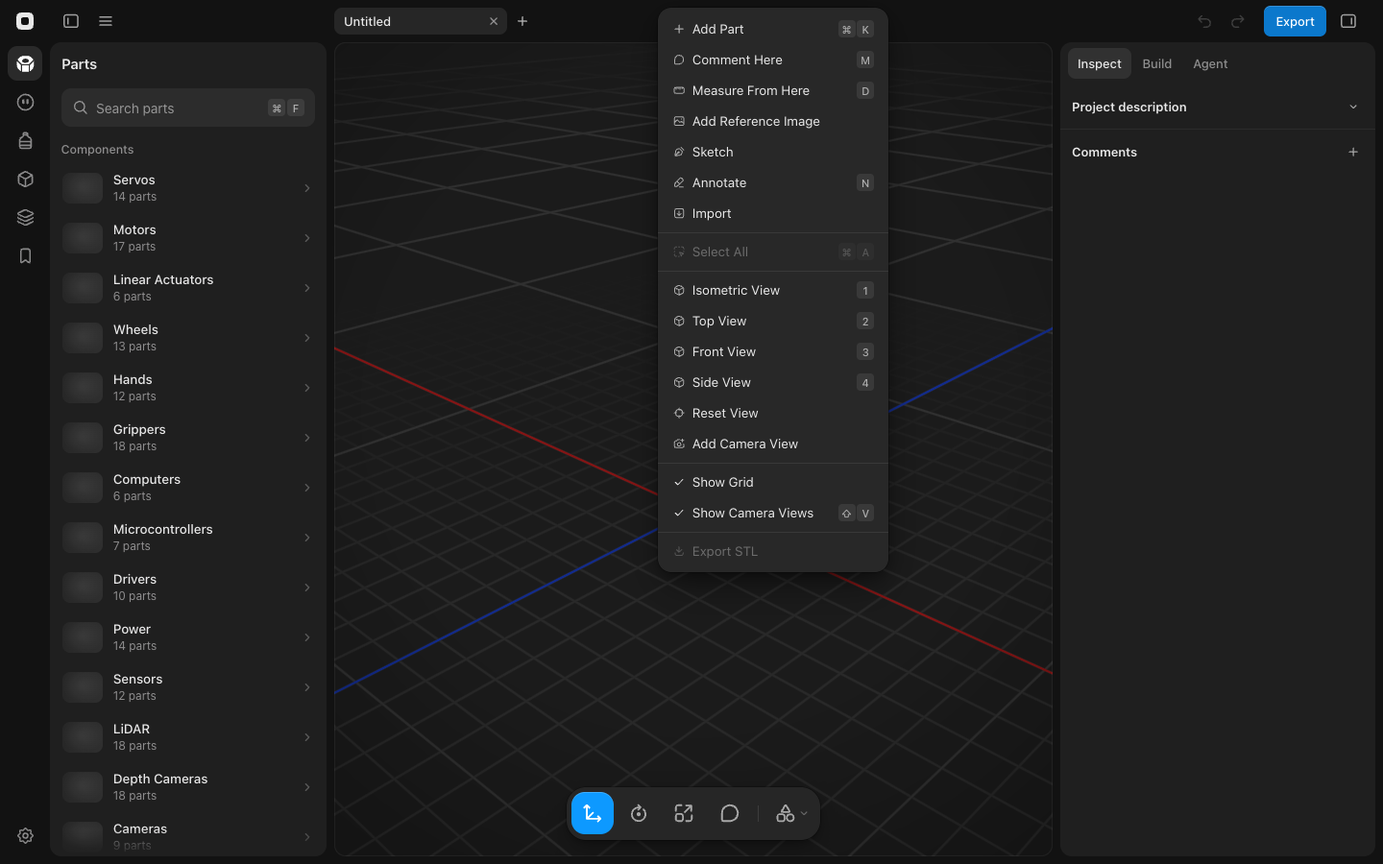
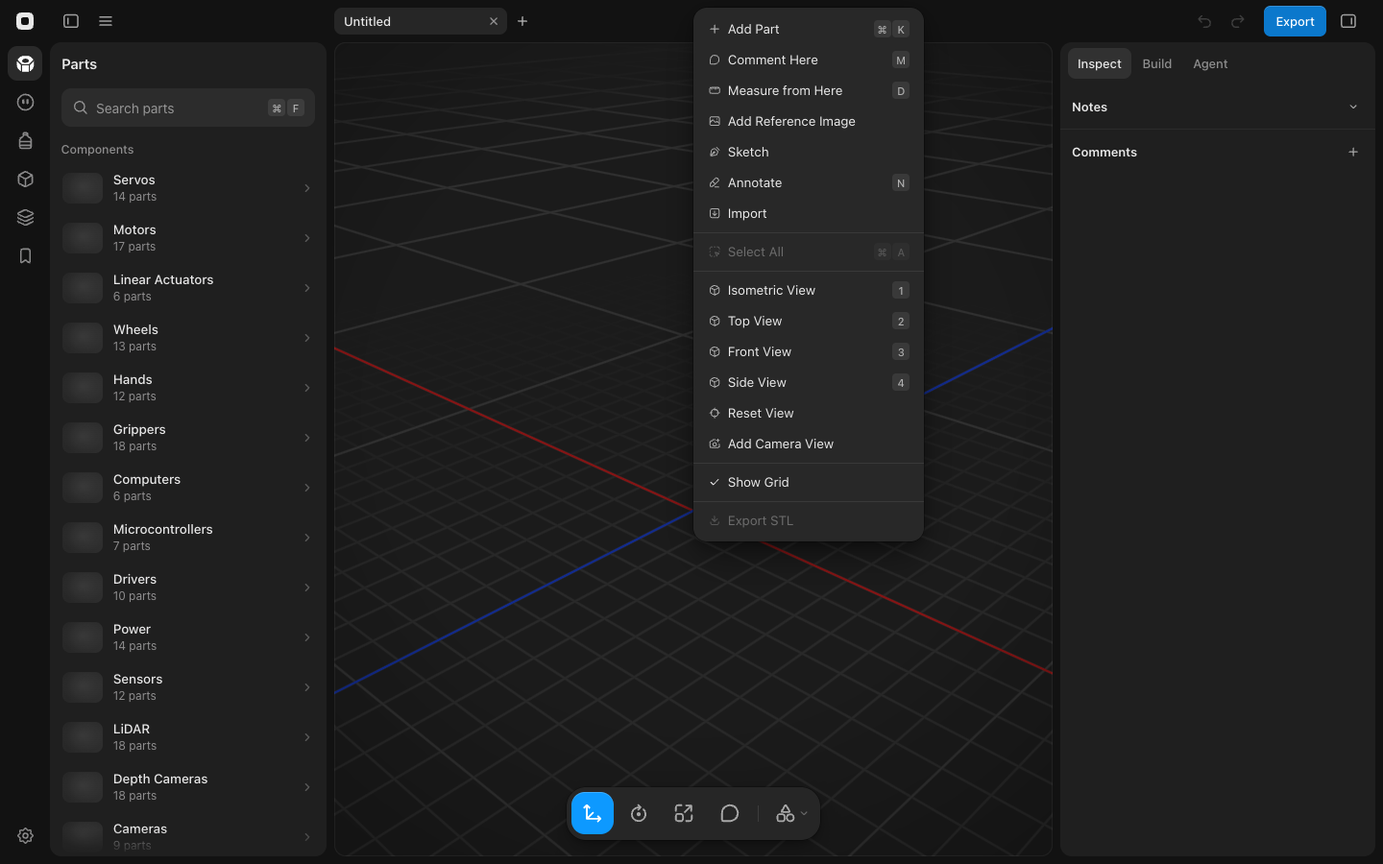
Write Title Case labels with short prepositions in lowercase
Most labels already kept from, to, with and as lowercase (Model from
Image, Copy as Markdown), but Measure From Here, Train From Tries,
Drive With Camera, Compare With <scene>, Screws Into Parts and Screws
Off Their Holes didn't, and Ignore All built names like Range Of Motion
Checks by capitalizing every word. One titleCase helper in src/utils
now cases built labels, the copy guide states the rule, and the help
articles, their canvas-menu screenshot, guides and e2e tests use the
new labels.

diff --git a/e2e/trainFromTries.e2e.test.ts b/e2e/trainFromTries.e2e.test.ts
@@ -91,13 +91,13 @@ afterAll(async () => {
   await app?.close();
 });
 
-describe('Train From Tries', () => {
+describe('Train from Tries', () => {
   it.skipIf(process.platform === 'win32')(
     'trains from five driven tries, refuses a policy the Case fails and keeps one it passes as a ready skill',
     async () => {
       const policy = touchingPolicy();
       const still = { ...policy, layers: [{ ...policy.layers[0], b: policy.layers[0].b.map(() => 0) }] };
-      const trainFromTries = () => button('Train From Tries');
+      const trainFromTries = () => button('Train from Tries');
       const result = app.page.locator(visible('[data-testid="tries-policy"]'));
       const skill = app.page.locator(visible('[data-testid="skill-row"]'), { hasText: 'Touch a Point' });
 
@@ -117,8 +117,8 @@ describe('Train From Tries', () => {
 
       await stubTrainer(policy);
       await app.page.keyboard.press('Meta+k');
-      await app.page.getByLabel('Search commands').fill('Train From Tries');
-      await app.page.locator(visible('button[data-idx]')).filter({ hasText: 'Train From Tries' }).first().click();
+      await app.page.getByLabel('Search commands').fill('Train from Tries');
+      await app.page.locator(visible('button[data-idx]')).filter({ hasText: 'Train from Tries' }).first().click();
       await expect.poll(() => result.getAttribute('data-kept'), { timeout: 180000 }).toBe('true');
       expect(await result.innerText()).toMatch(/^(29|30|31|32) of 32$/);
 

diff --git a/src/readiness/wording.ts b/src/readiness/wording.ts
@@ -1,3 +1,4 @@
+import { titleCase } from '../utils/titleCase';
 import type { Finding, FindingArea, FindingFix, FindingLevel } from './types';
 
 interface Rule {
@@ -37,9 +38,9 @@ export const RULES = {
     'Thin Walls Around Inserts',
     'The wall around this insert could break when it’s pressed in.',
   ),
-  'misses-hole': fit(SCREWS, 'Screws Off Their Holes', 'This screw doesn’t line up with a mounting hole.'),
+  'misses-hole': fit(SCREWS, 'Screws off Their Holes', 'This screw doesn’t line up with a mounting hole.'),
   'too-deep': fit(SCREWS, 'Screws Too Deep', 'This screw goes too deep and could damage the part.'),
-  'screw-in-part': fit(SCREWS, 'Screws Into Parts', 'Check there’s a threaded hole where this screw lands.'),
+  'screw-in-part': fit(SCREWS, 'Screws into Parts', 'Check there’s a threaded hole where this screw lands.'),
   unheld: {
     area: 'assembly',
     check: ATTACHED,
@@ -136,8 +137,6 @@ const PLAIN_ENGINEERING: Record<string, Partial<Record<FindingLevel, string>>> =
     note: 'The robot is close to tipping over.',
   },
 };
-
-const titleCase = (text: string) => text.replace(/\b[a-z]/g, (c) => c.toUpperCase());
 
 export function engineeringFinding(
   check: string,

diff --git a/e2e/buildCheck.e2e.test.ts b/e2e/buildCheck.e2e.test.ts
@@ -360,7 +360,7 @@ describe('Cases in Checks', () => {
   }, 150000);
 });
 
-describe('Compare With', () => {
+describe('Compare with', () => {
   const rover = fixtureRobots().find((r) => r.id === 'rover-diff')!;
   const flag = presetCase('reach-the-flag', buildRig(rover.joints, rover.parts), rover.parts);
   const WEAK_WHEEL_NM = 0.075;
@@ -415,8 +415,8 @@ describe('Compare With', () => {
     await expect.poll(activeCase).toBe(caseId);
 
     await app.page.keyboard.press('Meta+k');
-    await app.page.getByLabel('Search commands').fill('Compare With');
-    await expect.poll(() => app.page.getByText(/^Compare With Weak rover/).count(), { timeout: 15000 }).toBe(1);
+    await app.page.getByLabel('Search commands').fill('Compare with');
+    await expect.poll(() => app.page.getByText(/^Compare with Weak rover/).count(), { timeout: 15000 }).toBe(1);
     await app.page.keyboard.press('Enter');
 
     const rows = app.page.locator(visible('[data-testid="compare-row"]'));

diff --git a/src/utils/titleCase.test.ts b/src/utils/titleCase.test.ts
@@ -1,0 +1,21 @@
+import { describe, expect, it } from 'vitest';
+import { titleCase } from './titleCase';
+
+describe('titleCase', () => {
+  it('capitalizes each word but articles, conjunctions and short prepositions', () => {
+    expect(titleCase('range of motion')).toBe('Range of Motion');
+    expect(titleCase('current and runtime')).toBe('Current and Runtime');
+    expect(titleCase('heat near servos')).toBe('Heat near Servos');
+    expect(titleCase('parts without a source')).toBe('Parts Without a Source');
+  });
+
+  it('capitalizes a short word that starts or ends the label', () => {
+    expect(titleCase('to the flag')).toBe('To the Flag');
+    expect(titleCase('compare with')).toBe('Compare With');
+  });
+
+  it('cases each part of a hyphenated word and keeps capitals already there', () => {
+    expect(titleCase('hard-to-reach screws')).toBe('Hard-to-Reach Screws');
+    expect(titleCase('LiDAR on IMU')).toBe('LiDAR on IMU');
+  });
+});

diff --git a/src/utils/titleCase.ts b/src/utils/titleCase.ts
@@ -1,0 +1,47 @@
+const MINOR_WORDS = new Set([
+  'a',
+  'an',
+  'the',
+  'and',
+  'or',
+  'nor',
+  'but',
+  'as',
+  'at',
+  'by',
+  'for',
+  'from',
+  'in',
+  'into',
+  'near',
+  'of',
+  'off',
+  'on',
+  'onto',
+  'per',
+  'to',
+  'via',
+  'with',
+]);
+
+const capitalized = (word: string) => word.charAt(0).toUpperCase() + word.slice(1);
+
+function casedPart(part: string, edge: boolean) {
+  const lower = part.toLowerCase();
+
+  return !edge && MINOR_WORDS.has(lower) ? lower : capitalized(part);
+}
+
+export function titleCase(text: string): string {
+  const words = text.split(' ');
+  const last = words.length - 1;
+
+  return words
+    .map((word, i) =>
+      word
+        .split('-')
+        .map((part, j, parts) => casedPart(part, (i === 0 && j === 0) || (i === last && j === parts.length - 1)))
+        .join('-'),
+    )
+    .join(' ');
+}

diff --git a/src/workspace/caseCommands.tsx b/src/workspace/caseCommands.tsx
@@ -80,7 +80,7 @@ function fromTriesCommands({ fromTries }: WorkspaceCore['simTraining']['cases'])
     {
       id: 'case-train-from-tries',
       group: 'Simulate',
-      label: 'Train From Tries',
+      label: 'Train from Tries',
       icon: <TrainIcon className={ic} />,
       keywords: 'policy imitation behaviour behavior cloning learn demonstrations demos act lerobot skill',
       run: fromTries.train,
@@ -109,7 +109,7 @@ function compareCommands(core: WorkspaceCore): Command[] {
   return caseCompare.choices.map((choice) => ({
     id: `case-compare-${choice.tabId}`,
     group: 'Simulate',
-    label: `Compare With ${choice.name}`,
+    label: `Compare with ${choice.name}`,
     icon: <CasesIcon className={ic} />,
     keywords: 'case versus pass rate which better robot scene tab',
     run: () => {

diff --git a/e2e/cameraDrive.e2e.test.ts b/e2e/cameraDrive.e2e.test.ts
@@ -56,12 +56,12 @@ afterAll(async () => {
   await app?.close();
 });
 
-describe('Drive With Camera', () => {
+describe('Drive with Camera', () => {
   it('raises the G1’s right arm with the person’s, holds the legs and turns the camera off on Esc', async () => {
     const { page } = app;
 
     await page.evaluate((samples) => (window as unknown as StudioWindow).__studio.feedPose(samples), raiseRightArm());
-    await command('Drive With Camera');
+    await command('Drive with Camera');
     await expect.poll(async () => (await studio()).drive, { timeout: 60000 }).toBe('on');
     await page.locator(shown(OPERATOR_TILE)).first().waitFor();
     expect(await operatorCamera()).toMatchObject({ open: true, live: true });

diff --git a/src/components/simulate/driveWithCamera.ts b/src/components/simulate/driveWithCamera.ts
@@ -1,7 +1,7 @@
 import { CAMERA_INPUTS } from '../../sim/inputSources';
 import type { SimDrive } from '../../sim/useDrive';
 
-export const DRIVE_WITH_CAMERA = 'Drive With Camera';
+export const DRIVE_WITH_CAMERA = 'Drive with Camera';
 
 export async function startDriving(drive: SimDrive, onRefuse: (message: string) => void, inputs?: readonly string[]) {
   if (await drive.start(undefined, inputs ? { inputs } : undefined)) return;

diff --git a/src/workspace/contextMenuItems.tsx b/src/workspace/contextMenuItems.tsx
@@ -353,7 +353,7 @@ export function contextMenuItems(menu: CanvasMenuState, inputs: ContextInputs): 
           onSelect: () => core.annotations.place(point, menu.partId),
         },
         {
-          label: 'Measure From Here',
+          label: 'Measure from Here',
           shortcut: 'D',
           icon: <RulerIcon className={ic} />,
           onSelect: () => {

diff --git a/src/readiness/wording.test.ts b/src/readiness/wording.test.ts
@@ -26,6 +26,7 @@ describe('what the user reads', () => {
     expect(f.text).toBe('This servo is too weak for its joint.');
     expect(f.detail).toContain('120%');
     expect(f.ruleName).toBe('Servo Torque Checks');
+    expect(engineeringFinding('Range of motion', 'note', { detail: '' }).ruleName).toBe('Range of Motion Checks');
   });
 });
 

diff --git a/src/components/simulate/FromTries.tsx b/src/components/simulate/FromTries.tsx
@@ -25,7 +25,7 @@ export const FromTries: React.FC<{ fromTries: TriesTraining }> = ({ fromTries })
       icon={<TrainIcon className="w-4 h-4" />}
       onClick={fromTries.train}
     >
-      Train From Tries
+      Train from Tries
     </Button>
   </div>
 );

diff --git a/docs/guide/cases.md b/docs/guide/cases.md
@@ -38,7 +38,7 @@ A clean run in a perfect world says little about the real robot, so Checks judge
 
 Two versions of a robot, say one per gripper, are compared on the same Case: duplicate the scene, change the design, and run the Case on both.
 
-- **Compare With** (the open Case's right-click menu in the Cases view, and ⌘K as Compare With ⟨scene⟩) lists the other open tabs whose robot fits the Case (`comparableRobots` in `src/cases/caseCompare.ts`: `slotRefusal` on the Case's slot, read through `studio.robotsBeside`, §5a). Only Cases with one slot are offered. `useCaseCompare` (`src/workspace/`) refreshes the list in an effect while the tab is in front, since `robotsBeside` is never read during render.
+- **Compare With** (the open Case's right-click menu in the Cases view, and ⌘K as Compare with ⟨scene⟩) lists the other open tabs whose robot fits the Case (`comparableRobots` in `src/cases/caseCompare.ts`: `slotRefusal` on the Case's slot, read through `studio.robotsBeside`, §5a). Only Cases with one slot are offered. `useCaseCompare` (`src/workspace/`) refreshes the list in an effect while the tab is in front, since `robotsBeside` is never read during render.
 - **Runs:** `compareCase(kase, robots, { runs, purchases })` gives every robot the same `runs`. In the app that's `caseVerdict` (`src/workspace/caseChecks.ts`, the same call as `run_case`), the Checks row's own path: seeds 1 to 20 in the Case workers, the Case scaled to each robot's reach by `caseRunner`, and one verdict cache keyed by the Case, model and Walk hashes, so a robot whose Checks row already ran answers at once. Model readings are cached per geometry (8 kept). Comparison jobs carry an empty tag, so a Checks rerun's `keepOnly` never drops them.
 - **Cost and mass** come from the existing code: `buildBom(…).totals.estimatedUsd` (`utils/bom.ts`, with no print report, so without support filament) and `robotWeight(…).all.grams`, the Weight check's mass (`utils/engineering.ts`).
 - **Results** shows the two robots first, as two rows: the scene's name, passes out of 20, then cost and mass. A robot the fit check stops (it falls on hold, its model won't compile, it fails the fall check) shows the stop's words in place of the count, truncated, with the whole text in its tooltip. The median margin stays out of the row: it has no unit a person can read, so only `compare_case` returns it. `betterOf` marks the higher pass rate with the accent; a refusal counts as no passes, and a tie marks neither. Clicking the other robot's row calls its tab's `openCase` (it opens that scene's Case with the same id, or adds this one) and selects the tab.
@@ -104,7 +104,7 @@ Drive works in the live sim, never as a physics-off puppet. A command is `{type:
 **Input sources** (`src/sim/inputSources.ts`, types in `inputTypes.ts`): every way of driving is a source with an id, registered once with `registerInputSource`, whose `read` turns the moment (the drive class and the held keys) into a drive command or nothing. `camera`, `phone`, `gamepad` and `keys` are registered today. A source that follows a body sets `pose` and has a lifecycle: `open(robot)` gets an `InputRobot` (a fixed arm's hand start and reach in scene mm, or a rig without parts, a table of its rest points and the joint ids to drive) and answers `null` or why it couldn't start; `close()` stops it. The drive reads the sources it's given (`drive.setInputs`; the studio's are `phone`, `gamepad` then `keys`, or `drive.start(team, { inputs })` for one session), and the first one that's moving drives, so a tilted phone overrides a stick, and a stick still overrides the keys. A command with a target or joints is never idle. When a session's sources include a pose source, `drive.start` asks `driveAccess` for pose access, opens the lifecycle sources with `openInputs` (a refusal closes what opened and comes back from `drive.refusal()`), keeps them open through restarts (a Case try starts the drive again with the same session), and closes them on stop, Esc, or the sim stopping. `drive.inputs()` holds each source's last reading. `NAMED_INPUTS` lists the sources arc #184 plans (`camera`, `phone`, `midi`, `leader-arm`, `voice`, `policy`, `script`) so a console naming one this version doesn't register is refused as missing rather than as unknown. A new source registers itself and plugs into the drive and every console without touching how a Case runs. A leader arm isn't a source: the daemon only emulates (§8k), and an emulated leader can't be moved by hand.
 
 - **Phone** (`phone`, `src/phone/`): **Pair Phone** (⌘K, Simulate group; desktop app and the dev bridge, never the web demo, which can't open a LAN socket) starts the pairing server (`electron/phone/`, Security §0h) and shows its URL as a QR code (`PairPhoneHost`, `uqr`). The phone's page sends tilt (DeviceOrientation β and γ), a touch pad's x and y and two buttons about 30 times a second; the app hears them over IPC (`phone:event`) or the bridge's event stream (`/api/bridge/phone-events`). The code closes once the phone connects; Esc while it shows, or **Unpair Phone**, ends the pairing, and so does the phone leaving. The store (`phoneStore.ts`) listens from the first Pair Phone until a pairing closes, ignores the old run's close while a new pair request is out, and adopts the main process's pairing at boot (`phoneState`, like `robotState`), so a reloaded page shows the code or the connected phone again. With no LAN IPv4 address, Pair Phone refuses with “Connect to a network to pair a phone”, never a code for a loopback URL. `phoneCommand` (`phoneDrive.ts`): tilt is level within 4° and full at 25°; tipping the top down drives forward and tipping the left edge down turns left, as `v` for rovers and legs and as the hand target's motion for arms; the pad's x strafes legs, its y lifts an arm's hand, and A grips. Each new press is a named event, `phone` with the value `a` or `b`, sent to a running Case's logic (§ Logic), so a Routine reacts to it like `voice`. A reading older than 500 ms counts as none, so a phone that locks stops the robot. `phoneDrive.test.ts`: a 20° tilt walks `quad-servo` and drives `rover-diff` forward and a level phone stops them, and a tilt moves the arm's hand forward without leaving its reach.
-- **Camera** (`camera`, `src/cameras/operator/`, §8l): **Drive With Camera** (the Simulate tab's Control section, and ⌘K's Simulate group, for robots `poseOffer` accepts: `hasArms`, or a fixed robot with an end effector) starts a session with `CAMERA_INPUTS` (`camera`, then the studio's), so keys still walk a robot whose Walk runs under its arms. For joints it sends the retargeted upper body, and nothing grips. For a fixed arm it sends the right wrist's motion relative to the shoulder as `target`, and `aux[1]` as the left hand's pinch, so it grips. If the camera can't be opened, the toast says “Couldn’t open the camera.” A Case try records as usual, so a camera-driven try exports like any other.
+- **Camera** (`camera`, `src/cameras/operator/`, §8l): **Drive with Camera** (the Simulate tab's Control section, and ⌘K's Simulate group, for robots `poseOffer` accepts: `hasArms`, or a fixed robot with an end effector) starts a session with `CAMERA_INPUTS` (`camera`, then the studio's), so keys still walk a robot whose Walk runs under its arms. For joints it sends the retargeted upper body, and nothing grips. For a fixed arm it sends the right wrist's motion relative to the shoulder as `target`, and `aux[1]` as the left hand's pinch, so it grips. If the camera can't be opened, the toast says “Couldn’t open the camera.” A Case try records as usual, so a camera-driven try exports like any other.
 - **e2e** (`e2e/inputs.e2e.test.ts`): runs Pair Phone, connects a socket from the test with the URL and certificate from `__studio.phone()`, tilts it until the rover moves, and checks the socket is refused after Unpair Phone.
 
 `useDrive` (`src/sim/useDrive.ts`) owns the drive state and the fall check; `useDriveKeys` (`src/workspace/useDriveKeys.ts`) reads W A S D or the arrows, Q E, Space (grip), R (start over: `engine.respawn` puts the robot back without touching the world) and Esc (stop). While driving, `useWorkspaceKeys` runs no plain or ⌘ key, so S, F, Backspace and undo never edit parts (any parts edit still stops the sim). Keys zero on window blur and when the page hides; with a text field focused the canvas says “Click the canvas to drive”, and a click on the canvas takes focus back. Gamepads are read in the sim's frame handler (`frameHookRef`), with no extra animation frame; a stick inside its deadzone never overrides the keys. A command is sent only when it changes (`sameCommand`, which compares the target too).
@@ -161,7 +161,7 @@ A Case's rules are a Routine (§8j), never a second format: `logic` holds one, `
 
 ### Training from tries
 
-**Train From Tries** (Results section and ⌘K, desktop only, shown once the open Case has 5 passed tries) clones a policy from the Case's passed tries in Forge (§8g) and keeps it only when the Case passes it. Code: `src/workspace/useTriesTraining.ts`, `src/skills/triesTraining.ts`, `src/datasets/demos.ts`.
+**Train from Tries** (Results section and ⌘K, desktop only, shown once the open Case has 5 passed tries) clones a policy from the Case's passed tries in Forge (§8g) and keeps it only when the Case passes it. Code: `src/workspace/useTriesTraining.ts`, `src/skills/triesTraining.ts`, `src/datasets/demos.ts`.
 
 - **Which tries:** the passed tries that match the robot now (`usableTries.ts`, shared with Datasets) whose recording also carries each joint's velocity address and the root's (`Recording.jointDof` and `root`, recorded by every try since; `canTrain`). With fewer than 5 it says what Export Dataset says about an earlier design.
 - **Rows** (`demoEpisode`): one per `episodeData` row but the last. The observation is `observe()`'s, so it's exactly what the sim's policy reads: a fixed base's constants, the Case's target as the command (`caseCommand`: the first probe end that's an object or a point, in metres), joint offsets from the default pose, joint velocities and the previous row's action. The action is the next row's actuator targets, less the default pose, over `actionScale` (the widest offset in the tries × 1.05, at least 0.25). Rows are 25 Hz, so the policy's `controlDt` is 0.04 s.
@@ -170,12 +170,12 @@ A Case's rules are a Routine (§8j), never a second format: `logic` holds one, `
 - **Kept only on a pass:** the evidence has Arena's shape with one held-out variant (`triesEvidence`), and its one-sided 95% Clopper-Pearson bound must reach Arena's 0.75: 29 of 32. Then the skill saves like any other, and its `SkillRecord` carries `case: { id, model }`, the Case and the robot model hash the Checks row reads. Train lists it as ready, and Try runs it. Below the bar nothing is saved. Either way Results shows a row with the count, such as 30 of 32 (red when it isn't kept), and, when a run failed, the worst run's filmstrip.
 - **The Checks row** runs a Case with the newest skill kept for it whose `case.model` matches the robot now, in place of the reference; the verdict cache keys on the policy. `caseVerdict` picks the same skill when no control is passed, so `run_case` and Compare With judge what the row judges and still share its cache.
 - **Not yet:** Drive doesn't run a Case's skill, and the method router's ask-for-demo rung doesn't send to it, since a draft carries no Case (§8i).
-- **Tests:** `src/datasets/demos.test.ts` (rows against `episodeData`; a try from an older model or without velocity addresses is left out), `src/skills/triesTraining.test.ts` (the job, a refused policy saves nothing, a kept one is a ready row in Train, a policy on a fixed arm from moved start joints), `electron/trainFromTries.test.mjs` (runs once Forge is built, through `forgeBinary` and the trainer's `writeJobFolder`: 10 scripted passing tries of arm-3dof's Touch a Point train a policy that passes 32 of 32; the same tries with their actions shuffled pass 0), `electron/trainer.test.mjs` (the demos file), and `e2e/trainFromTries.e2e.test.ts` (5 driven tries passed with `__studio.passTries()`; Train From Tries with `__studio.stubTrainer` returning a policy that holds still, which the Case refuses with its count and the worst run's filmstrip; then ⌘K Train From Tries with a policy that holds the arm on the point, kept as a ready row in Train whose Try runs it).
+- **Tests:** `src/datasets/demos.test.ts` (rows against `episodeData`; a try from an older model or without velocity addresses is left out), `src/skills/triesTraining.test.ts` (the job, a refused policy saves nothing, a kept one is a ready row in Train, a policy on a fixed arm from moved start joints), `electron/trainFromTries.test.mjs` (runs once Forge is built, through `forgeBinary` and the trainer's `writeJobFolder`: 10 scripted passing tries of arm-3dof's Touch a Point train a policy that passes 32 of 32; the same tries with their actions shuffled pass 0), `electron/trainer.test.mjs` (the demos file), and `e2e/trainFromTries.e2e.test.ts` (5 driven tries passed with `__studio.passTries()`; Train from Tries with `__studio.stubTrainer` returning a policy that holds still, which the Case refuses with its count and the worst run's filmstrip; then ⌘K Train from Tries with a policy that holds the arm on the point, kept as a ready row in Train whose Try runs it).
 
 ### In the app
 
 - **Cases** tab in the Play view (§5). It opens with **New Case** (primary; tooltip “Pick a world and a goal”; hidden when the robot can try no goal), which opens the builder card in place: Goal (only the goals that fit; hidden when there's one), World, the goal's numbers, Name, then the brief it will get, or the fix when the numbers can't work, with Cancel (Esc) and Create (↩). Create adds the Case, opens it and switches to the Simulate tab. **Ask the Agent** (desktop only) puts `/case ` in the agent composer, focused. Under them, the scene's Cases, with no heading. Without a robot: “No robot” + [Browse Robots].
-- **Simulate tab** with a Case open reads in the order a person works: **the Case** (its name is the section title, with its Checks row's status icon (`CheckIcon`, the Build tab's), Run Case and Close; under it the brief. Whether the robot can do the Case is said once, by its Checks row (§8b): the icon's tooltip is the row's count or, with none, its note, and clicking it opens the Build tab and scrolls to and focuses the row (`caseCheckOf`, `caseCheckId`). The icon shows once the row exists. There is no fit section and no Check Fit: ⌘K's Run Checks, which also answers to fit, reruns the row. Drive and Try keep their own gating (`fallCheckPassed`, § Driving)), **Try** (Try It, a clock, End Try, the keys), **Control**, **Train** (Teach it to, the skills list and trained policies, §8d), **Results** (the comparison's two rows while there is one, § Comparing two robots, then the latest run, then tries worst first, each with Replay, which opens the try timeline, then Export Dataset and Publish to Hugging Face once one passed, § Datasets, then Train From Tries once five passed, § Training from tries, and Share Robot, § Web gallery; with nothing else to show it shows only Share Robot). Without a Case, Control has Drive. A connected emulated robot's live status is in Operate, in the left panel, so it stays on screen beside the tab during a try (§8k); a running Case shows it in a servos panel. What the simulation estimates (torque without a servo, servos without a measured model) is in Build → Checks (§8b), not here.
+- **Simulate tab** with a Case open reads in the order a person works: **the Case** (its name is the section title, with its Checks row's status icon (`CheckIcon`, the Build tab's), Run Case and Close; under it the brief. Whether the robot can do the Case is said once, by its Checks row (§8b): the icon's tooltip is the row's count or, with none, its note, and clicking it opens the Build tab and scrolls to and focuses the row (`caseCheckOf`, `caseCheckId`). The icon shows once the row exists. There is no fit section and no Check Fit: ⌘K's Run Checks, which also answers to fit, reruns the row. Drive and Try keep their own gating (`fallCheckPassed`, § Driving)), **Try** (Try It, a clock, End Try, the keys), **Control**, **Train** (Teach it to, the skills list and trained policies, §8d), **Results** (the comparison's two rows while there is one, § Comparing two robots, then the latest run, then tries worst first, each with Replay, which opens the try timeline, then Export Dataset and Publish to Hugging Face once one passed, § Datasets, then Train from Tries once five passed, § Training from tries, and Share Robot, § Web gallery; with nothing else to show it shows only Share Robot). Without a Case, Control has Drive. A connected emulated robot's live status is in Operate, in the left panel, so it stays on screen beside the tab during a try (§8k); a running Case shows it in a servos panel. What the simulation estimates (torque without a servo, servos without a measured model) is in Build → Checks (§8b), not here.
 - **Checks** (Build tab, §8b) lists every Case as a row with how many of 20 seeded runs it passed (§ Seeded runs); clicking the row opens the Case here.
 - ⌘K: Show Cases, New Case, Drive or Stop Driving, Start Over, Try ⟨Case⟩, Run Case, Export Dataset, Publish to Hugging Face, Share Robot, and Make It Pass while the open Case's row fails.
 - **Agent:** `create_case` (`electron/cad-mcp/caseTools.mjs` → bridge kind → `src/workspace/agentCaseRequests.ts`) builds a Case through the same builder (goal `handoff` included, with the partner arm read from the other open tabs) from a goal, a world, numbers in mm (and `dots` for touch) and extra `set_world`-style objects in the agent frame, and replies `{ ok, id, name, brief, seconds, objects }` or `{ ok: false, problem }`. It also takes `logic` (a Routine, § Logic), `score` and `console` (§ Running a Case): the built Case goes through `parseCase`, then the logic compiles against the scene's skills plus `drive`, and a refused console or Routine replies with the reader's path or the compiler's message and adds nothing. With a console, the new Case opens running (`useCaseRun.enterCase`, which keeps the view and selection saved by a Case already running) and the reply adds `running: true`. The prompt's Slash commands read a message starting with `/case` as a request for one, and tell the agent to describe behaviours as Case logic; its Case apps section makes any experience a person describes with a robot (teleop, a game, a station) a Case with a console, importing the named robot when the scene has none and naming in one sentence an input or hardware this version lacks. Tests: `agentCaseRequests.test.ts` (a console kept and opened, a refused panel by path, a missing input); `e2e/caseApp.e2e.test.ts` sends a recorded `create_case` with a camera console through `__studio.agentRequest` (any agent request kind, run as the agent's would be, dev only) and checks the Case opens running with its camera tile.
